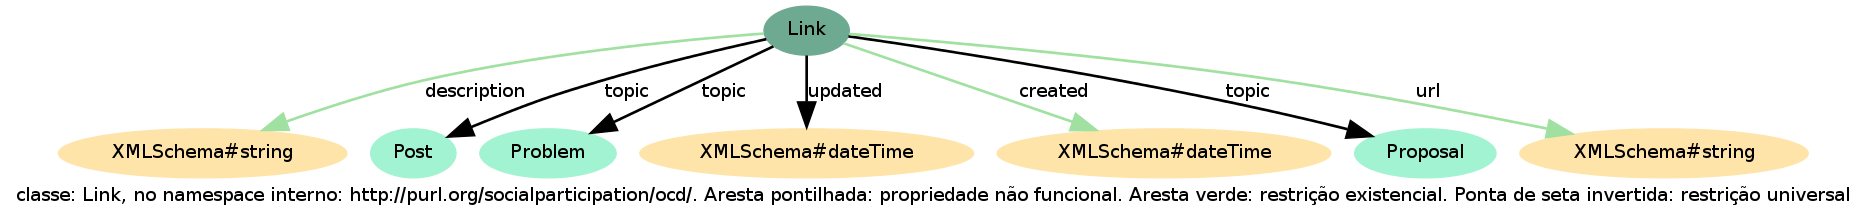
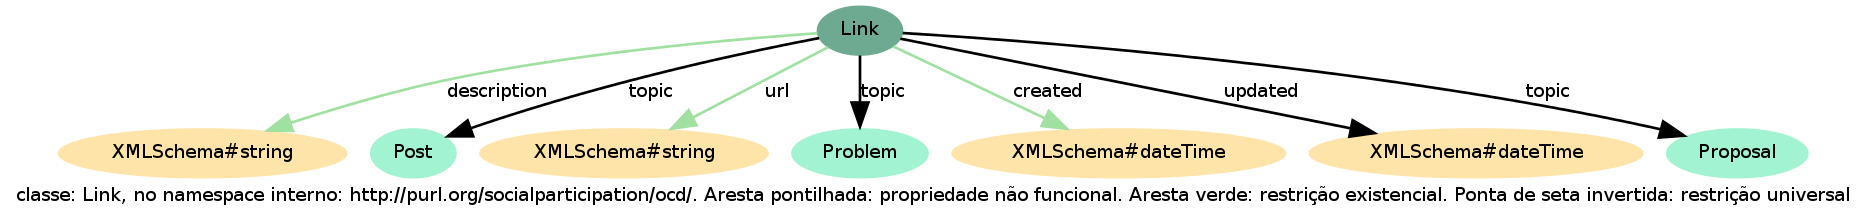
adicionadas figuras das propriedades

Changed region(s): [[0.1243, 0.0274, 0.9941, 0.8219], [0.6213, 0.3014, 0.8698, 0.5479], [0.5592, 0.3014, 0.5903, 0.3562]]

diff --git a/OCD.py b/OCD.py
@@ -1,6 +1,6 @@
 #!/usr/bin/python
 #-*- coding: utf-8 -*-
-import cPickle as pickle, time
+import cPickle as pickle, time, string
 from SPARQLWrapper import SPARQLWrapper, JSON
 import rdflib as r, pygraphviz as gv
 import pylab as pl
@@ -566,6 +566,72 @@ for tkey in kk:
 A.draw("imgs/OCD_.png",prog="twopi",args="-Granksep=14")
 A.draw("imgs/OCD_2.png",prog="dot",args="-Granksep=14 -Gsize='1000,1000'")
 print("Wrote geral _ ")
+
+for prop in props:
+    # observar todos os subjeitos com q ela ocorre
+    # observar todos os objetos com que ela ocorre
+    # fazer estrutura, plotar cada uma
+    prop_=prop.split("/")[-1]
+    #suj=fazQuery("SELECT DISTINCT ?cs WHERE { ?s <%s> ?o . ?s a ?cs . }"%(prop,))
+    #obj=fazQuery("SELECT DISTINCT ?co (datatype(?o) as ?do) WHERE { ?s <%s> ?o . OPTIONAL { ?o a ?co . } }"%(prop,))
+    #P[prop_]=(suj,obj)
+    suj,obj=P_[prop_]
+    A=gv.AGraph(directed=True)
+    A.graph_attr["label"]=("propriedade: %s, no namespace interno: http://purl.org/socialparticipation/ocd/"%(prop_,))
+#    A.add_node(1,style="filled")
+#    A.add_node(2,style="filled")
+    A.add_edge(1,2)
+    e=A.get_edge(1,2)
+    e.attr["label"]=prop_
+    if prop_ in notFunctionalProperties:
+        e.attr["style"]="dotted"
+    for cl in Re.keys():
+        tr=Re[cl]
+        pp=[iii[0] for iii in tr]
+        if prop in pp:
+            e.attr["color"]="#A0E0A0"
+            print "%s, EXISTENCIAL"%(prop_,)
+        
+    for cl in Ru.keys():
+        tr=Ru[cl]
+        pp=[iii[0] for iii in tr]
+        if prop in pp:
+            e.attr["arrowhead"]="inv"
+            e.attr["arrowsize"]=2.
+            print "UNIVERSAL"
+
+
+    n1=A.get_node(1)
+    n2=A.get_node(2)
+    n1.attr['style']="filled"
+    n2.attr['style']="filled"
+    n1.attr['color']="blue"
+    n2.attr['color']="red"
+    # Agiliza tags dos sujeitos
+    #ts=[i["cs"]["value"].split("/")[-1] for i in suj]
+    ts=suj
+    ls=string.join(ts,"<br />")
+    print "ls: "+ls
+    #n1.attr['label']=ls
+    n1.attr['label']=("<%s>"%(ls,))
+    # Agiliza tags dos objetos 
+    if "mbox" in prop_:
+        lo="XMLSchema#anyURI"
+        to=[lo]
+    else:
+        #to1=[i["co"]["value"].split("/")[-1] for i in obj if "co" in i.keys()]
+        #to2=[i["do"]["value"].split("/")[-1] for i in obj if "do" in i.keys()]
+        #to=to1+to2
+        to=obj
+        lo=string.join(to,"<br />")
+    P_[prop_]=(ts,to)
+    print "lo:"+lo
+    n2.attr['label']=("<%s>"%(lo,))
+    nome=("imgs/properties_/%s.png"%(prop_,))
+    A.draw(nome,prog="dot") # draw to png using circo
+    print("Wrote %s"%(nome,))
+
+
 
 
 # figura com as propriedades
